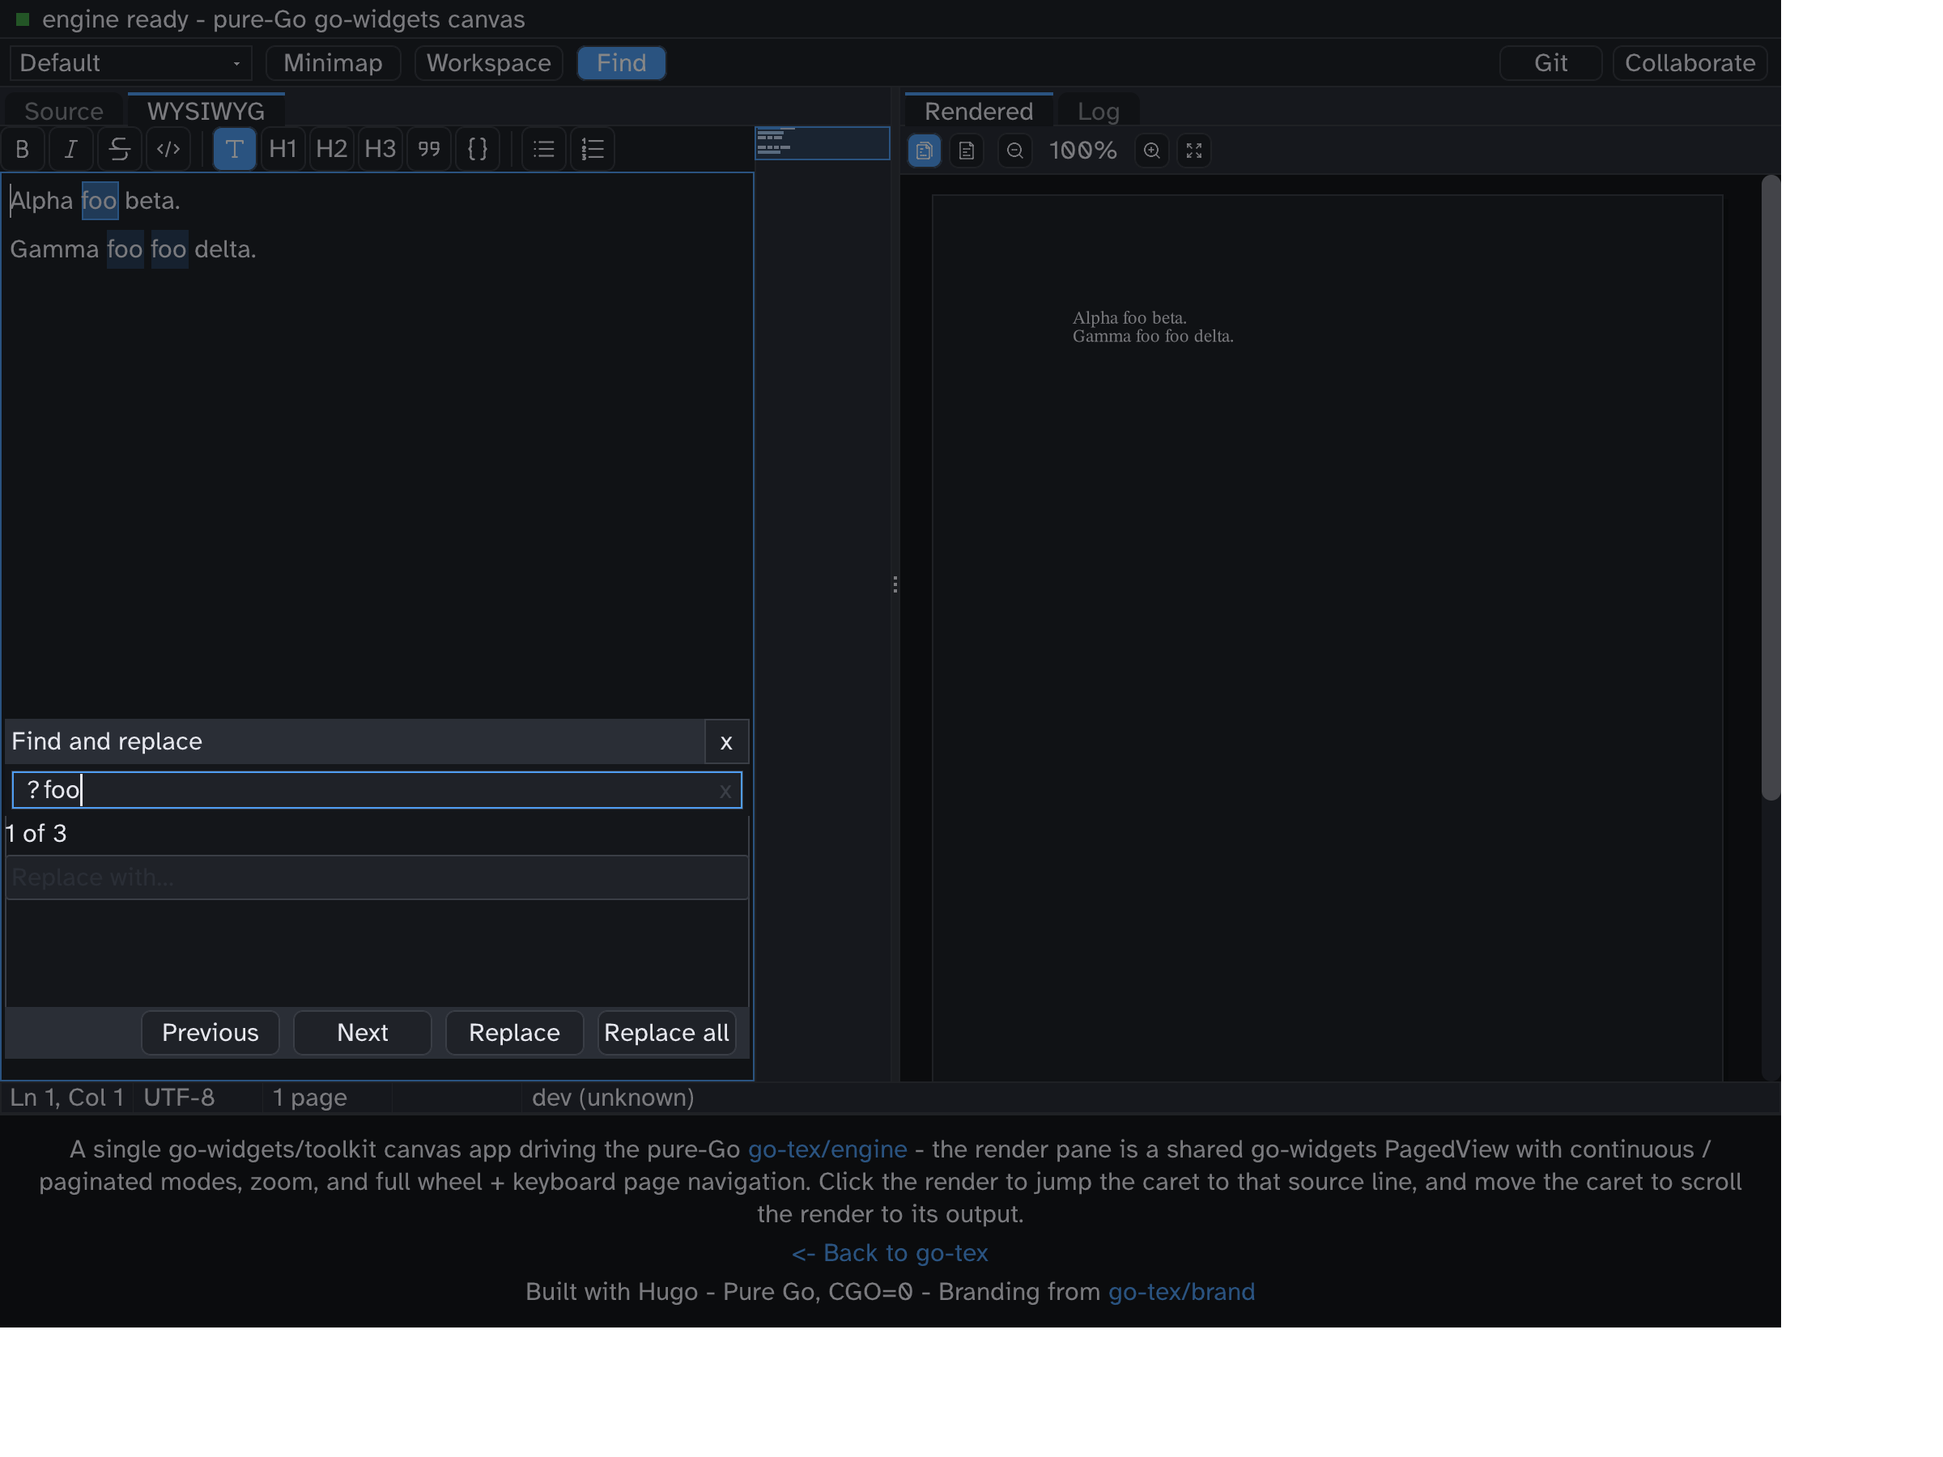
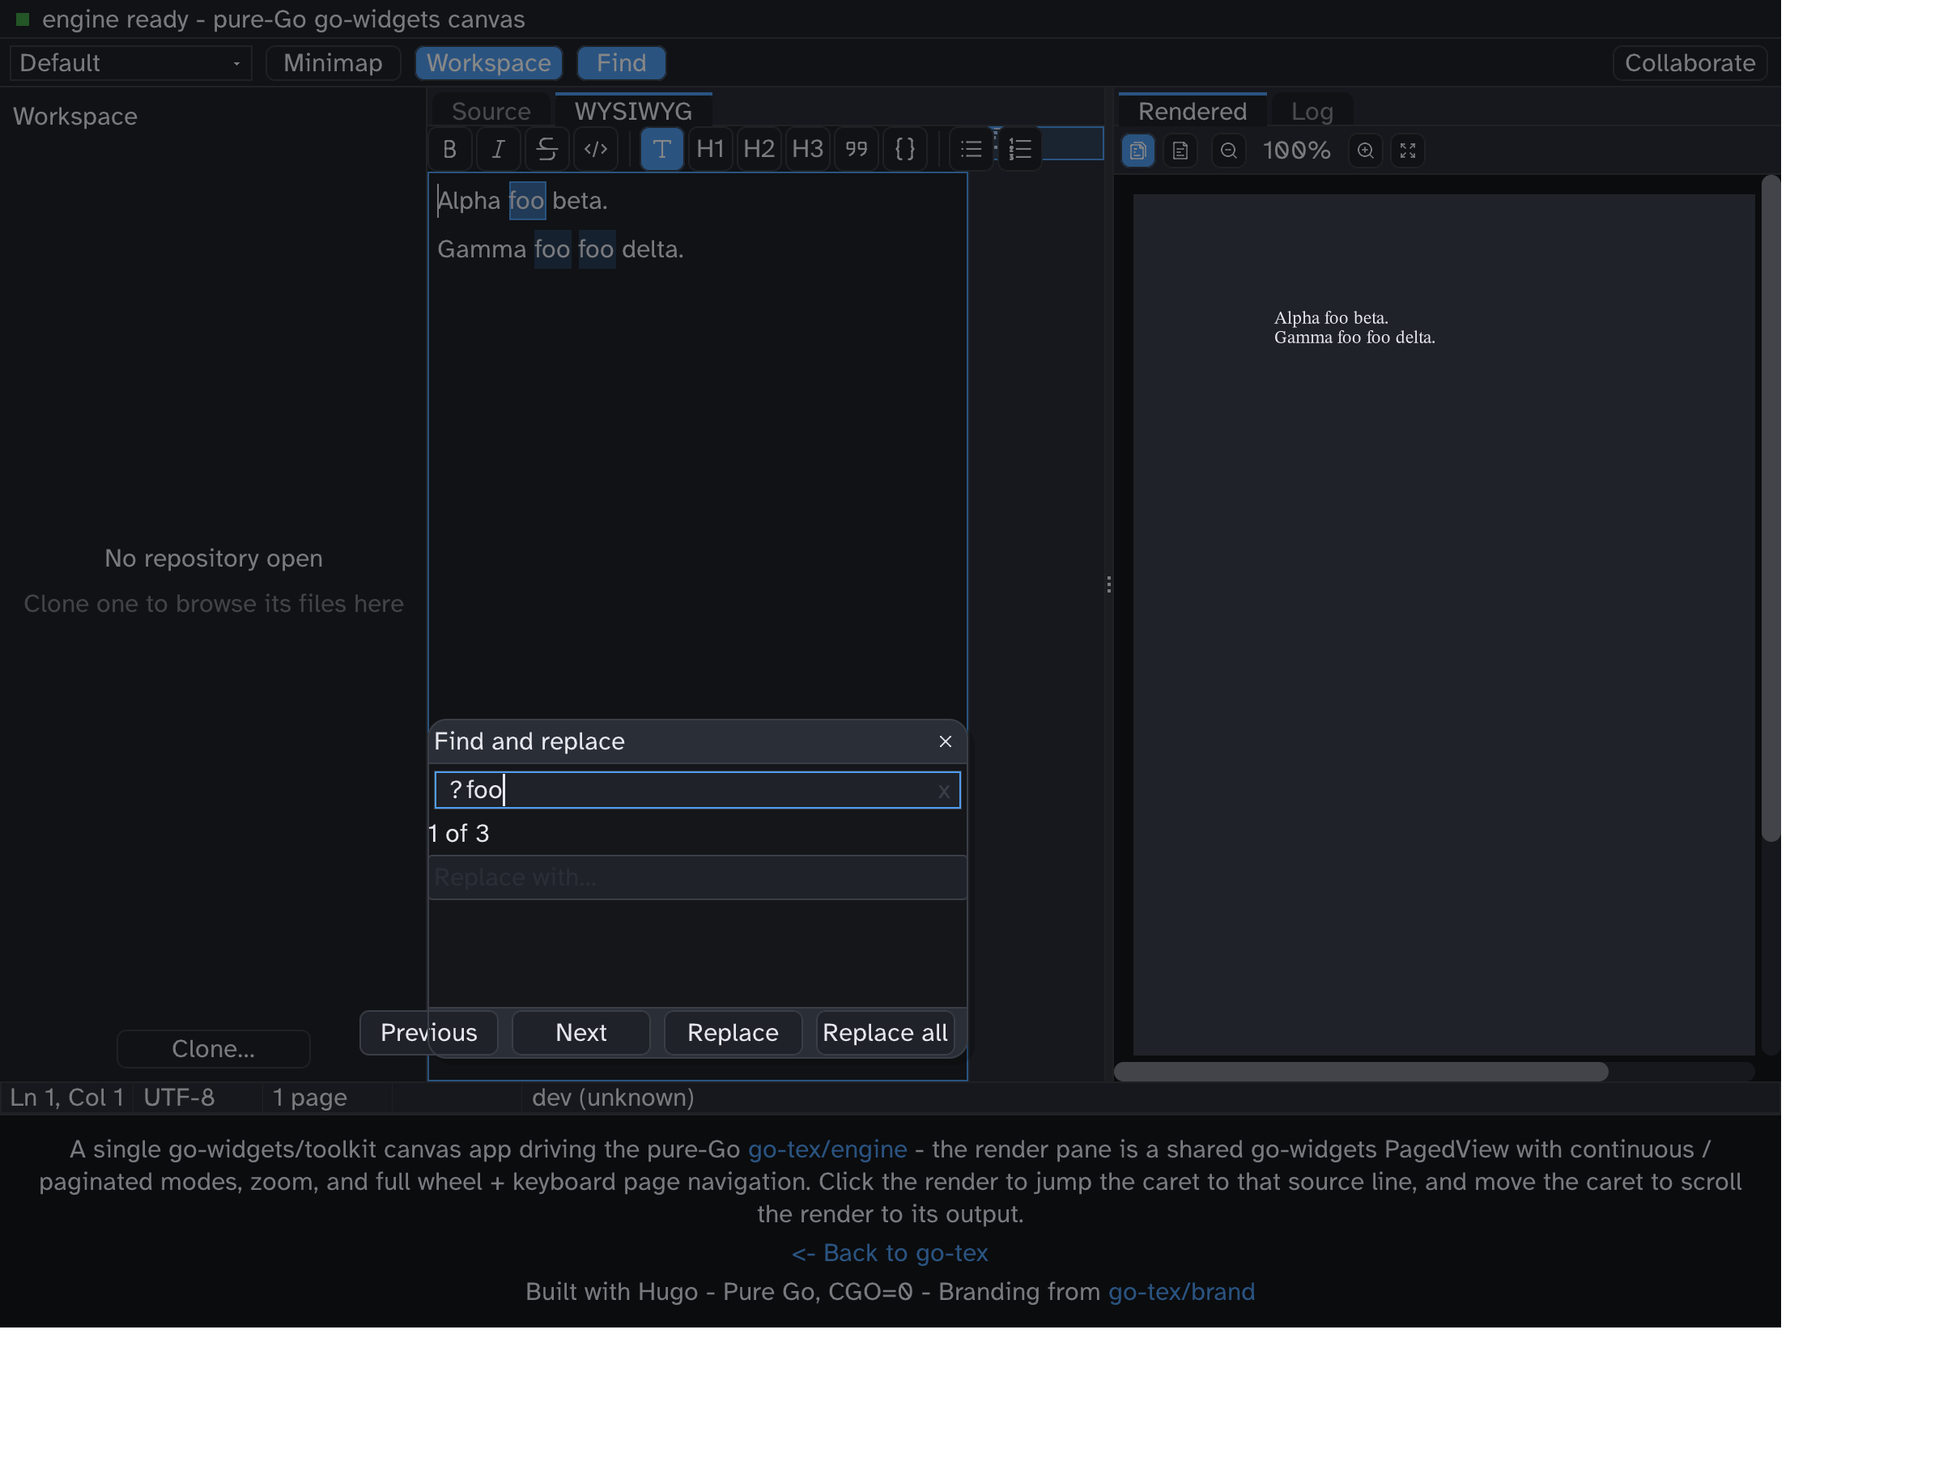
playground: open the workspace sidebar at boot, and shape the loading skeleton like it
The Git workspace sidebar shipped closed-by-default (the canvas kept its
full width until the toolbar toggle opened it). But #64 made the app clone
the sample repository at boot, so on load there is already a workspace to
show — and it was hidden behind a toggle nobody had pressed. This opens the
sidebar by default (newSidebar sets open: true); the toolbar "Workspace"
button now closes it to reclaim the canvas, rather than revealing it.

Two consequences handled:

The HTML loading placeholder previewed a two-pane (editor | render)
skeleton, so the canvas reveal jumped sideways when the three-column
sidebar | editor | render layout materialised. The skeleton now leads with
a 264 px band matching sidebarW, so what the eye sees loading is the layout
that loads. A narrow viewport (<=720px) drops the sidebar band, as the app
drops the column.

Opening or closing the sidebar changes the width left for the editor+render
Paned by exactly the sidebar width. toggle() now rescales the divider
proportionally, so the editor keeps its SHARE of the available width instead
of the render pane swallowing the whole delta (and leaving the editor stuck
narrow) on close and yielding it all back on open.

Sidebar/toolbar browser drivers and unit tests updated for the open-at-boot
default. Full suite green with -race, 84.9s; wasm build and vet clean.

diff --git a/layouts/_default/playground.html b/layouts/_default/playground.html
@@ -41,11 +41,22 @@ body{display:flex;flex-direction:column;min-height:100vh;min-height:100dvh}
    <svg> inside it does not inherit an inline-element baseline gap. */
 #gotex-pages svg{display:block}
 .stage.ready #gotex-canvas{opacity:1}
-/* HTML loading placeholder: a two-pane skeleton with a real progress bar driven
-   by the streamed wasm download; hidden once the app signals it is ready. */
+/* HTML loading placeholder: a workspace-shaped skeleton (sidebar | editor |
+   render) with a real progress bar driven by the streamed wasm download; hidden
+   once the app signals it is ready.
+   The app boots with the Git workspace sidebar OPEN (playground/sidebar.go,
+   sidebarW = 264 logical px). The toolkit renders at devicePixelRatio, so one
+   logical pixel is one CSS pixel — the sidebar is 264 CSS px wide. The skeleton's
+   first column matches that width so the three shimmer bands preview the loaded
+   sidebar|editor|render layout and the canvas reveal does not jump. */
 #pg-placeholder{position:absolute;inset:0;display:flex;flex-direction:column;gap:14px;padding:16px;background:var(--card)}
 .stage.ready #pg-placeholder{display:none}
-.pg-skel{flex:1;display:grid;grid-template-columns:1fr 1fr;gap:14px;min-height:0}
+/* First column = the workspace sidebar (264px, matching sidebarW); the remaining
+   space splits evenly between the editor and the render pane, as the app lays it
+   out. On a viewport too narrow to seat all three, the sidebar band is dropped so
+   the editor/render preview keeps a sensible size. */
+.pg-skel{flex:1;display:grid;grid-template-columns:264px 1fr 1fr;gap:14px;min-height:0}
+@media (max-width:720px){.pg-skel{grid-template-columns:1fr 1fr}.pg-skel-side{display:none}}
 .pg-skel>div{border:1px solid var(--line);border-radius:12px;
   background:linear-gradient(100deg,var(--bg) 30%,var(--line) 50%,var(--bg) 70%);
   background-size:200% 100%;animation:pgshimmer 1.4s linear infinite}
@@ -76,7 +87,7 @@ body{display:flex;flex-direction:column;min-height:100vh;min-height:100dvh}
   <div class="stage">
     <canvas id="gotex-canvas"></canvas>
     <div id="pg-placeholder">
-      <div class="pg-skel"><div></div><div></div></div>
+      <div class="pg-skel"><div class="pg-skel-side"></div><div></div><div></div></div>
       <div class="pg-load">
         <div id="pg-msg">Downloading playground.wasm…</div>
         <div class="pg-track"><div class="pg-fill" id="pg-fill"></div></div>

diff --git a/playground/sidebar_test.go b/playground/sidebar_test.go
@@ -130,16 +130,26 @@ func withClonedSidebar(t *testing.T) (*State, *fakeGitBackend) {
 
 func TestSidebarToggleAndWidth(t *testing.T) {
 	s := newTestState(t, false)
-	if s.SidebarOpen() || s.SidebarWidth() != 0 {
-		t.Fatalf("sidebar should start closed with zero width")
-	}
-	s.ToggleSidebar()
+	// OPEN by default: the workspace column reserves its width on load and the
+	// editor+render body sits to the right of it.
 	if !s.SidebarOpen() || s.SidebarWidth() != toolkit.Scaled(sidebarW) {
+		t.Fatalf("sidebar should start open with reserved width: open=%v width=%d", s.SidebarOpen(), s.SidebarWidth())
+	}
+	if s.paned.Bounds().X != toolkit.Scaled(sidebarW) {
+		t.Fatalf("paned did not start right of the open sidebar: X=%d", s.paned.Bounds().X)
+	}
+	// The toggle closes it, reclaiming the full canvas width.
+	s.ToggleSidebar()
+	if s.SidebarOpen() || s.SidebarWidth() != 0 {
 		t.Fatalf("after toggle: open=%v width=%d", s.SidebarOpen(), s.SidebarWidth())
 	}
-	// The editor+render body shrank to the right of the reserved column.
-	if s.paned.Bounds().X != toolkit.Scaled(sidebarW) {
-		t.Fatalf("paned did not shift right of the sidebar: X=%d", s.paned.Bounds().X)
+	if s.paned.Bounds().X != 0 {
+		t.Fatalf("paned did not reclaim full width when sidebar closed: X=%d", s.paned.Bounds().X)
+	}
+	// A second toggle re-opens it.
+	s.ToggleSidebar()
+	if !s.SidebarOpen() || s.SidebarWidth() != toolkit.Scaled(sidebarW) {
+		t.Fatalf("second toggle should re-open: open=%v width=%d", s.SidebarOpen(), s.SidebarWidth())
 	}
 	// SetSidebarOpen(true) is idempotent (no second toggle); (false) closes.
 	s.SetSidebarOpen(true)
@@ -156,23 +166,69 @@ func TestSidebarToggleAndWidth(t *testing.T) {
 	}
 }
 
+// TestSidebarToggleRebalancesDivider proves that closing the sidebar hands the
+// reclaimed column width to the editor+render split proportionally (the editor
+// keeps its share of the now-wider Paned) rather than the render pane swallowing
+// the whole delta, and that re-opening restores the earlier split.
+func TestSidebarToggleRebalancesDivider(t *testing.T) {
+	s := newTestState(t, false)
+	// Lay out once with the sidebar open so the divider holds its open-state
+	// position before we toggle.
+	s.Draw(make([]byte, testW*testH*4))
+	if !s.SidebarOpen() {
+		t.Fatal("precondition: the sidebar should be open")
+	}
+	openEditorW := s.editor.Bounds().W
+	openPos := s.paned.Position().Get()
+	if openEditorW <= 0 || openPos <= 0 {
+		t.Fatalf("open-state editor width/divider not laid out: w=%d pos=%d", openEditorW, openPos)
+	}
+
+	// Close: the Paned gains the sidebar's width and the divider is rescaled up,
+	// so the editor pane grows rather than staying pinned at its narrow width.
+	s.SetSidebarOpen(false)
+	closedPos := s.paned.Position().Get()
+	if closedPos <= openPos {
+		t.Fatalf("divider did not grow when the sidebar closed: %d -> %d", openPos, closedPos)
+	}
+	if s.editor.Bounds().W <= openEditorW {
+		t.Fatalf("editor did not widen when the sidebar closed: %d -> %d", openEditorW, s.editor.Bounds().W)
+	}
+	// The ratio is preserved (within rounding): pos/panedW is stable across the
+	// toggle. Open paned width = w - sidebarW; closed = w.
+	openPanedW := testW - toolkit.Scaled(sidebarW)
+	if got, want := closedPos*openPanedW, openPos*testW; absInt(got-want) > openPanedW {
+		t.Fatalf("divider ratio not preserved across close: closed=%d open=%d", closedPos, openPos)
+	}
+
+	// Re-open: the divider is rescaled back down to (about) its original spot.
+	s.SetSidebarOpen(true)
+	if got := s.paned.Position().Get(); absInt(got-openPos) > 1 {
+		t.Fatalf("re-opening did not restore the divider: %d, want ~%d", got, openPos)
+	}
+}
+
 func TestSidebarToolbarButtonToggles(t *testing.T) {
 	s := newTestState(t, false)
+	// The sidebar starts OPEN (workspace present on load).
+	if !s.SidebarOpen() {
+		t.Fatal("sidebar should start open by default")
+	}
 	// Click the toolbar "Workspace" toggle through the real input path: the
-	// button's callback opens the sidebar and re-lays out.
+	// button's callback closes the sidebar and re-lays out.
 	r := s.sidebarBtn.Bounds()
 	if !s.HandleClick(r.X+r.W/2, r.Y+r.H/2) {
 		t.Fatal("toolbar sidebar toggle click should be consumed")
 	}
 	s.HandleRelease(r.X+r.W/2, r.Y+r.H/2)
-	if !s.SidebarOpen() {
-		t.Fatal("clicking the toolbar toggle should open the sidebar")
+	if s.SidebarOpen() {
+		t.Fatal("clicking the toolbar toggle should close the sidebar")
 	}
-	// A second click closes it again.
+	// A second click re-opens it.
 	s.HandleClick(r.X+r.W/2, r.Y+r.H/2)
 	s.HandleRelease(r.X+r.W/2, r.Y+r.H/2)
-	if s.SidebarOpen() {
-		t.Fatal("a second toolbar toggle click should close the sidebar")
+	if !s.SidebarOpen() {
+		t.Fatal("a second toolbar toggle click should re-open the sidebar")
 	}
 }
 
@@ -458,7 +514,9 @@ func TestSidebarDrawGuards(t *testing.T) {
 	before := make([]byte, len(buf))
 	copy(before, buf)
 	p := painter.NewPixelPainter(buf, 100, 100)
-	// Closed → draw is a no-op (returns before touching the buffer).
+	// Closed → draw is a no-op (returns before touching the buffer). The sidebar
+	// opens by default, so close it first to exercise the closed guard.
+	s.sidebar.open = false
 	s.sidebar.draw(p, s.theme)
 	if !bytesEqual(buf, before) {
 		t.Fatal("a closed sidebar should paint nothing")

diff --git a/playground/sidebar_browser_test.go b/playground/sidebar_browser_test.go
@@ -23,12 +23,14 @@ import (
 // the viewport, exactly like the Hugo playground page — and proves, only through
 // the gotexSidebar hook + real canvas pixels:
 //
-//   - before opening, the canvas fills the viewport height below the header AND
-//     its full width (the #46 layout the sidebar must not break);
-//   - opening the sidebar reserves a sane left column while the canvas CSS box is
-//     unchanged (the column paints INSIDE the canvas) and the editor body shrinks
-//     to its right;
-//   - the column actually paints a non-background band on the left.
+//   - on load, the canvas fills the viewport height below the header AND its full
+//     width (the #46 layout the sidebar must not break);
+//   - the sidebar is OPEN on load — no click needed: it reserves a sane left
+//     column while the canvas CSS box is unchanged (the column paints INSIDE the
+//     canvas) and the editor body sits to its right;
+//   - the column actually paints a non-background band on the left on load;
+//   - the toggle still closes it: the column drops to zero width and the editor
+//     body reclaims the full canvas width, with the canvas box unchanged.
 //
 // It reuses the browser/puppeteer discovery + wasm-MIME helpers from
 // collab_browser_test.go, and the zones host page. It needs a browser, which CI
@@ -97,13 +99,16 @@ func TestSidebarLayoutBrowser(t *testing.T) {
 	for _, want := range []string{
 		"canvas fills the height below the header",
 		"canvas fills the full viewport width",
-		"sidebar reports open",
+		"sidebar is open on load",
 		"sidebar column is anchored to the left",
 		"sidebar column has a sane device width",
 		"sidebar does not swallow the whole canvas",
-		"editor body shrank to the right of the column",
-		"opening the sidebar did not resize the canvas box",
-		"sidebar column painted a non-background band on the left",
+		"editor body sits to the right of the column",
+		"sidebar column painted a non-background band on the left on load",
+		"toggle closes the sidebar",
+		"closed sidebar reserves no column",
+		"editor body widened when the sidebar closed",
+		"toggling the sidebar did not resize the canvas box",
 		"RESULT ",
 		`"ok":true`,
 	} {

diff --git a/playground/sidebar.go b/playground/sidebar.go
@@ -138,10 +138,11 @@ type sidebar struct {
 	btns     map[sidebarRole]*toolkit.Button
 }
 
-// newSidebar builds the affordance for s (closed by default, so the canvas keeps
-// its full width until the user opens the sidebar from the toolbar).
+// newSidebar builds the affordance for s (OPEN by default, so the workspace is
+// present on load — showing its EmptyState + Clone… until a repo is cloned). The
+// toolbar toggle still lets the user close it to reclaim the full canvas width.
 func newSidebar(s *State) *sidebar {
-	return &sidebar{s: s, nodePaths: map[*toolkit.TreeTableNode]string{}}
+	return &sidebar{s: s, open: true, nodePaths: map[*toolkit.TreeTableNode]string{}}
 }
 
 // ensureWidgets lazily builds the persistent widgets. Called at the top of every
@@ -179,9 +180,21 @@ func (b *sidebar) btn(role sidebarRole, label string) *toolkit.Button {
 // hasRepo reports whether a repository is open (a clone has succeeded).
 func (b *sidebar) hasRepo() bool { return b.s.git.backend.HasRepo() }
 
-// toggle flips the sidebar open/closed and repaints.
+// toggle flips the sidebar open/closed and repaints. Opening or closing the
+// column changes the width left for the editor+render Paned by exactly the
+// sidebar width; the divider is rescaled proportionally so the editor keeps its
+// SHARE of the newly available width — otherwise the render pane would swallow
+// the whole delta when the sidebar closes (leaving the editor stuck at the
+// narrow, sidebar-open width) and yield it all back when it re-opens. The
+// caller re-lays out after this; here we only adjust the absolute divider so
+// that relayout preserves the ratio.
 func (b *sidebar) toggle() {
+	oldW := b.s.paned.Bounds().W
 	b.open = !b.open
+	if newW := b.s.w - b.width(); oldW > 0 && newW > 0 {
+		pos := b.s.paned.Position()
+		pos.Set(pos.Get() * newW / oldW)
+	}
 	b.s.git.refresh()
 }
 

diff --git a/playground/git_panel_test.go b/playground/git_panel_test.go
@@ -288,9 +288,12 @@ func TestBootCloneOpensTheWorkspace(t *testing.T) {
 	s, f, _ := withGit(t)
 	f.files = []string{"article.tex", "gotex-demo.sty"}
 	f.fileData["article.tex"] = `\documentclass{article}\begin{document}cloned\end{document}`
-	if s.SidebarOpen() {
-		t.Fatal("the workspace must start closed")
+	// The workspace is present from load (open by default); a reader may still
+	// have closed it while the clone was in flight, so BootClone reveals it again.
+	if !s.SidebarOpen() {
+		t.Fatal("the workspace must start open by default")
 	}
+	s.SetSidebarOpen(false)
 
 	var gotErr error
 	s.BootClone(func(err error) { gotErr = err })
@@ -347,9 +350,10 @@ func TestExplicitCloneStillLoads(t *testing.T) {
 // already open.
 func TestBootCloneIsInertWhenItShouldBe(t *testing.T) {
 	bare := newTestState(t, false) // no backend attached
+	bare.SetSidebarOpen(false)     // reader closed it; BootClone must not touch it
 	bare.BootClone(nil)
 	if bare.SidebarOpen() {
-		t.Error("no backend: the workspace must stay closed")
+		t.Error("no backend: BootClone must not force the workspace open")
 	}
 
 	s, f, _ := withGit(t)

diff --git a/playground/wysiwyg_toolbar_test.go b/playground/wysiwyg_toolbar_test.go
@@ -16,6 +16,10 @@ import (
 // all fall inside the strip.
 func TestToolbarVisibilityAndLayout(t *testing.T) {
 	s := newWysState(t)
+	// This exercises the toolbar's own geometry: close the workspace sidebar
+	// (open by default) so the editor pane keeps the full width the 12-button
+	// strip was sized against, isolating the toolbar from the sidebar column.
+	s.SetSidebarOpen(false)
 	s.SetSource(wysSnippet)
 
 	// Source tab: the toolbar is hidden and its rect is zero-height.
@@ -100,6 +104,10 @@ func TestToolbarVisibilityAndLayout(t *testing.T) {
 // bullet-list button wraps it in a list.
 func TestToolbarClickDrivesEditor(t *testing.T) {
 	s := newWysState(t)
+	// Close the workspace sidebar (open by default) so the editor pane holds the
+	// full width the 12-button toolbar is laid out against — otherwise the last
+	// buttons fall outside the narrowed strip and the pointer misses them.
+	s.SetSidebarOpen(false)
 	s.SetSource("\\section{Title}\n\nPlain paragraph.\n")
 	s.SetEditorTab(tabWysiwyg)
 	if !s.WysiwygActive() {

diff --git a/playground/app.go b/playground/app.go
@@ -370,8 +370,9 @@ func NewState(w, h int, dark bool) *State {
 	s.collab = newCollabView(s) // Collaborate affordance (see collab.go)
 	s.git = newGitView(s)       // Remote-git affordance (see git.go)
 	s.sidebar = newSidebar(s)   // Git workspace sidebar, left column (see sidebar.go)
-	// The toolbar toggle for the workspace sidebar. Closed by default so the
-	// canvas keeps its full width until the user opens it.
+	// The toolbar toggle for the workspace sidebar. OPEN by default (see
+	// newSidebar) so the workspace is present on load; this toggle lets the user
+	// close it to reclaim the full canvas width.
 	s.sidebarBtn = toolkit.NewButton("Workspace", func() {
 		s.sidebar.toggle()
 		s.layout()

diff --git a/playground/findreplace_test.go b/playground/findreplace_test.go
@@ -296,6 +296,11 @@ func TestFindScrimAndCloseButton(t *testing.T) {
 // on an action button (Next) fires it via the Dialog.
 func TestFindClickRouting(t *testing.T) {
 	s := newTestState(t, false)
+	// This drives the find modal's four action buttons by their pixel centres, so
+	// the panel must keep its full design width. Close the workspace sidebar (open
+	// by default): with it open at this test viewport the editor pane is narrow
+	// enough that positionPanel clamps the panel below the width its buttons need.
+	s.SetSidebarOpen(false)
 	setFindDoc(s)
 	if s.fr.handleClick(10, 10) {
 		t.Fatalf("closed modal consumed a click")
